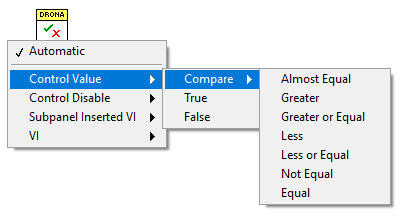
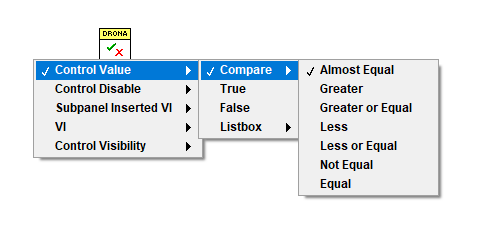
Updated readme.md file with v0.5.0 release link and updated the API images

Changed region(s): [[0.0, 0.0273, 0.99, 0.9545]]

diff --git a/README.md b/README.md
@@ -12,7 +12,7 @@ SLL Drona as an Open Source LabVIEW UI testing framework was presented in GLA Su
 Source code is saved with LabVIEW 2016.
 
 ## Installation
-Please find the latest SLL Drona package available [here](https://github.com/solitontech/SLL-Drona/releases/tag/v0.4.0) and install it using VI Package Manager.
+Please find the latest SLL Drona package available [here](https://github.com/solitontech/SLL-Drona/releases/tag/v0.5.0) and install it using VI Package Manager.
 
 ## Usage
 Drona provides a library of VIs that are used to automate and test the UI without any flaws. It can be used to test any LabVIEW application and supports creating test cases from SLL Drona APIs.
@@ -54,8 +54,7 @@ As mentiond above you should give the label name of the controls and ensure whet
 ### 3. Assert:
 <ul>In this step you will assert the value obtained with the actual and restun whether the test is passed or failed. This poly API available in SLL Drona palette provides a set of assert VIs that helps you in asserting the values. </ul>
 
-![Assert Control Value](Images/Assert%20Control%20value.png) ![Assert Control Disable](Images/Assert%20Control%20disable.png) ![Assert Subpanel Inserted VI](Images/Assert%20Subpanel%20Inserted%20VI.png)
- ![Assert VI](Images/Assert%20VI%20Exec.png)  
+![Assert Control Value](Images/Assert%20Control%20value.png) ![Assert Control Disable](Images/Assert%20Control%20disable.png) ![Assert Subpanel Inserted VI](Images/Assert%20Subpanel%20Inserted%20VI.png) ![Assert VI](Images/Assert%20VI%20Exec.png) ![Assert Control Visibility](Images/Assert%20Control%20visible.png) 
 <ul>As same as stimulus here also there needs to be a valid control path given. There are a set of Assert VIs available in SLL Drona palette which can be used to assert the value or obtained result. </ul> 
 
 For example, To assert the value of the string in the below sample UI you need to give the input as <br/>
